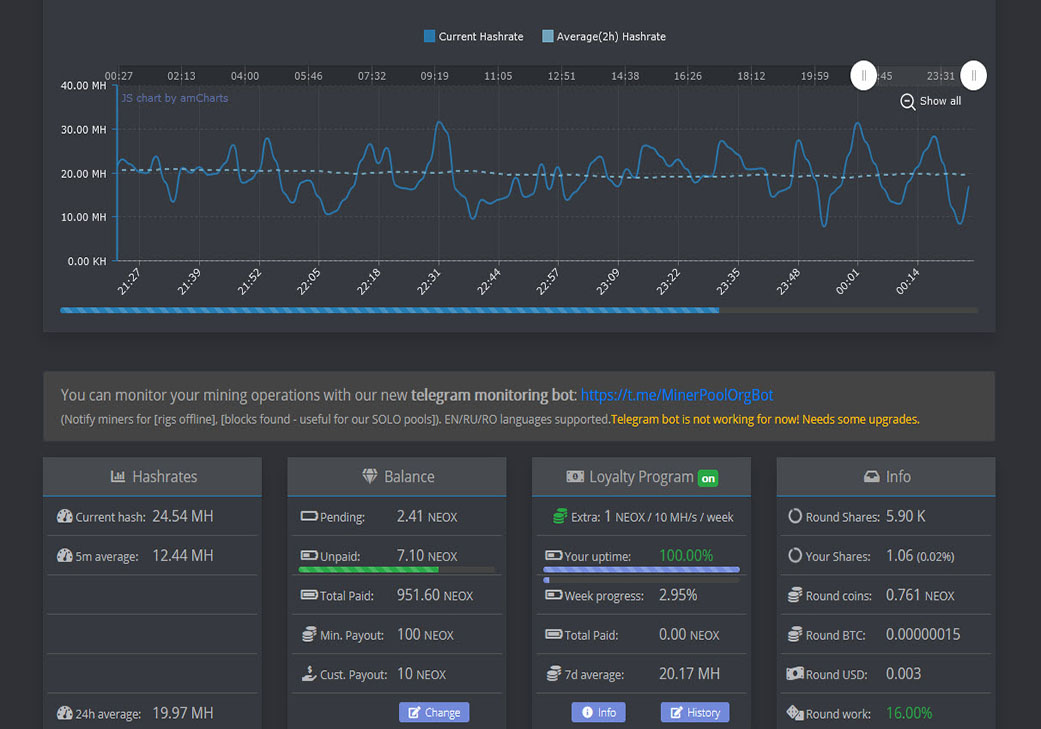
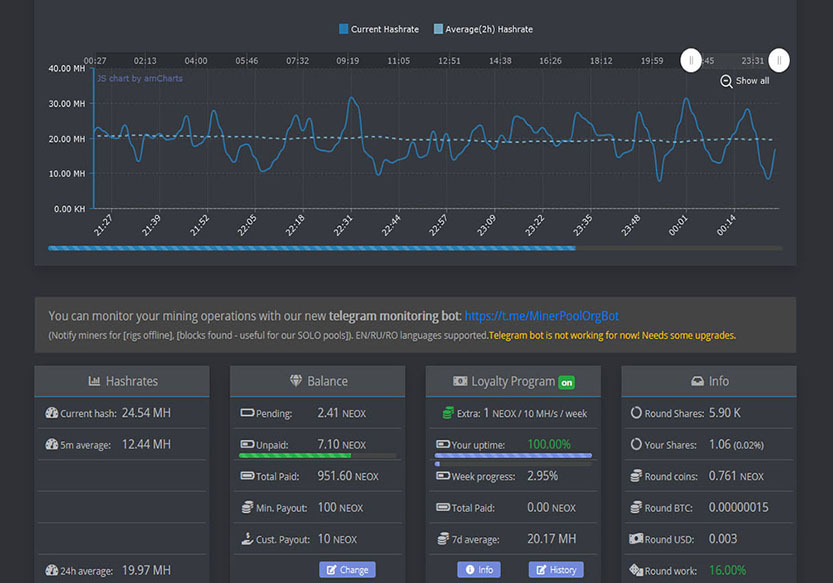
updates
reduced image sizes fixed spacing

diff --git a/index.html b/index.html
@@ -36,7 +36,7 @@
 								<h1>Hi. I'm <strong>Chris Porter</strong>.</h1>
 							</header>
 							<p>And this is <strong>My Portfolio</strong></p>
-							<a href="#work" class="button large scrolly">Learn about what I do</a>
+							<a href="#intro" class="button large scrolly">This is who I am</a>
 						</div>
 					</div>
 				</div>
@@ -51,7 +51,8 @@
 					</header>
 						<div class="col-4 col-6-medium col-12-small">
 							<iframe width="560" height="315" src="https://www.youtube.com/embed/05L7N4U0ItU" title="YouTube video player" frameborder="0" allow="accelerometer; clipboard-write; encrypted-media; gyroscope; picture-in-picture" allowfullscreen></iframe>
-						</div></div>
+						</div>
+					<div><p></p><a href="#work" class="button large scrolly">Learn about what I do</a></div></div>
 		</article>
 		
 		<!-- Work -->
@@ -122,7 +123,6 @@
 						</div>
 					</div>
 					<footer>
-						<p>Interested in my work?</p>
 						<a href="#contact" class="button large scrolly">Get in touch with me</a>
 					</footer>
 				</div>
